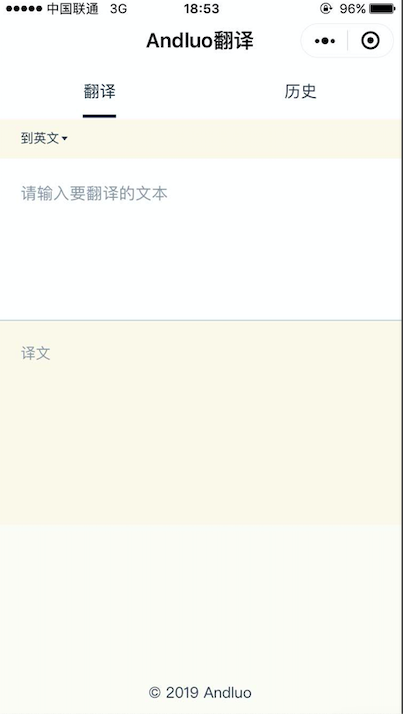
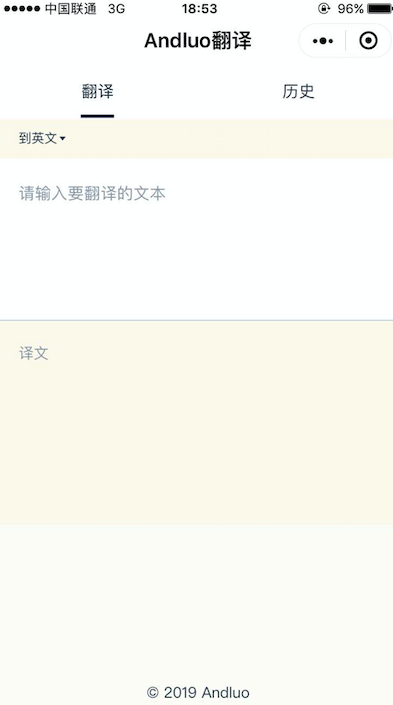
修图

diff --git a/README.md b/README.md
@@ -15,11 +15,11 @@
 
 ### 应用截图
 
-![1](/shortcut/s1.jpeg)
-![2](/shortcut/s2.jpeg)
-![3](/shortcut/s3.jpeg)
-![4](/shortcut/s4.jpeg)
-![5](/shortcut/s5.jpeg)
+![1](./shortcut/ss1.png)
+![2](./shortcut/ss2.png)
+![3](./shortcut/ss3.png)
+![4](./shortcut/ss4.png)
+![5](./shortcut/ss5.png)
 
 
 #### 如有疑问，请与我联系:1455234749@qq.com
